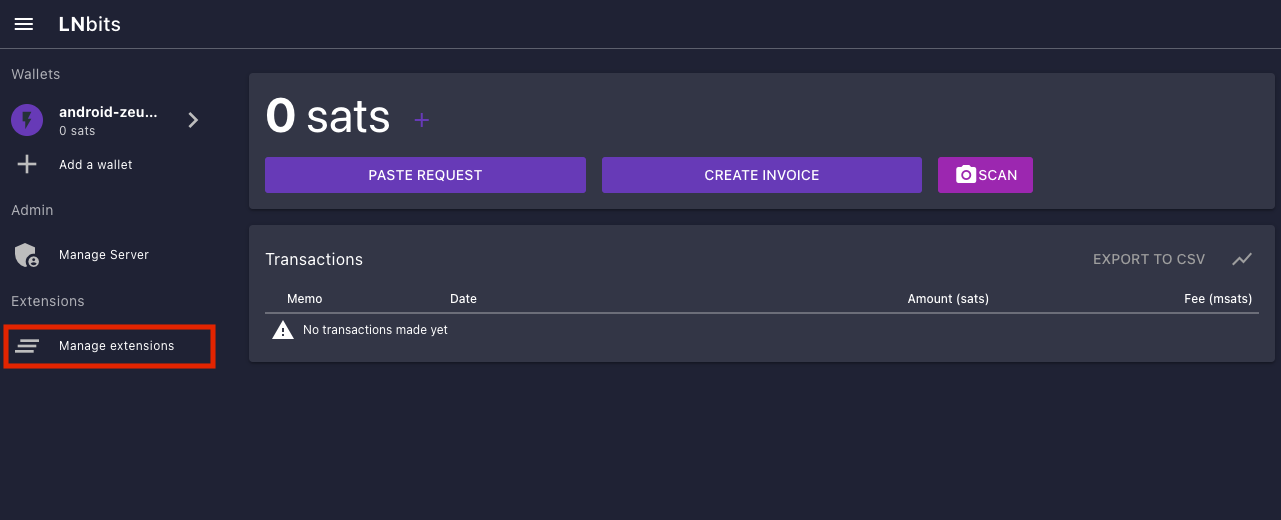
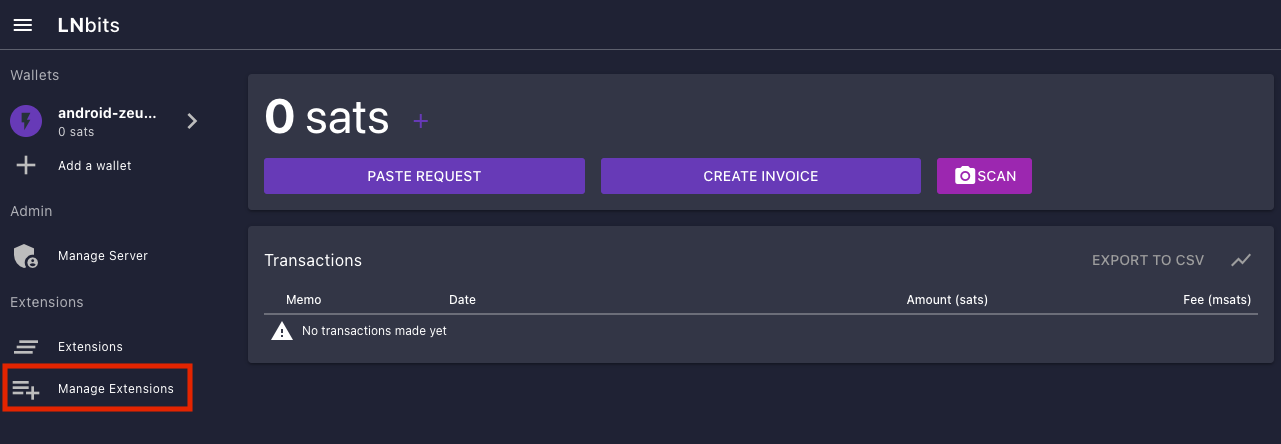
change format to be just lnbits with two tabs (zeus/alby), update to new LNbits UI

diff --git a/site/source/user-manual/service-guides/lightning/lightning-integrations.rst b/site/source/user-manual/service-guides/lightning/lightning-integrations.rst
@@ -90,16 +90,16 @@ BlueWallet
 
 .. _lnbits-zeus:
 
-LNbits & Zeus
--------------
+LNbits
+------
+
+Using LNbits allows you to create a wallet that makes use of your node with only an alloted amount of sats. This restriction can be very helpful for if you only want to have a small amount for spending on your phone without making your entire lightning balance available. You can even allow other people to have wallets you create for them - think giving your children an allowance. They can start with a set amount (can be zero) and simply spend what you initially make available. They can also earn more for themselves as they will have the freedom to issue their own invoices - all while making use of your node.
+
+.. tip:: All wallets created this way are ultimately bound by the capacity of your node. If one wallet is allocated 10,000 sats but your underlying node only has 9000 sats of outbound capacity, payments will simply fail.
 
 .. note:: LND only
 
-.. note:: Requires Tor to be running on your phone - use :ref:`this guide<tor-os>` if necessary.
-
-Using LnBits allows you to create a wallet that makes use of your node with only an alloted amount of sats. This restriction can be very helpful for if you only want to have a small amount for spending on your phone without making your entire lightning balance available. You can even allow other people to have wallets you create for them - think giving your children an allowance. They can start with a set amount (can be zero) and simply spend what you initially make available. They can also earn more for themselves as they will have the freedom to issue their own invoices - all while making use of your node.
-
-.. tip:: All wallets created this way are ultimately bound by the capacity of your node. If one wallet is allocated 10,000 sats but your underlying node only has 9000 sats of outbound capacity, payments will simply fail.
+.. note:: You will need a Tor enabled browser. We suggest using Firefox which will need to have been setup to use Tor - if you have yet to do this please see our guide :ref:`here<tor-firefox>`. This also requires having :ref:`native tor setup<tor-os>`.
 
 #. Start by ensuring that you have LND and LNbits installed already. You also need for LND to have at least one channel set up otherwise payments will not work. If you have not set up a channel yet, please follow :ref:`this guide<lightning-intro>`.
 
@@ -109,119 +109,167 @@ Using LnBits allows you to create a wallet that makes use of your node with only
 
 #. Head to LNbits on your server, click on **Properties** and copy address under the **Superuser Account**.
 
-   .. note:: You need to make sure you are going to .onion address - Zeus cannot connect over .local! Please change *.local* to *.onion* and remove the *s* from *https://* as shown in the picture below.
+   .. note:: In this guide we are connecting via Tor so please change *.local* to *.onion* and remove the *s* from *https://* as shown in the picture below.
 
    .. figure:: /_static/images/services/lnbits/local-to-onion.png
       :width: 60%
       :alt: local-to-onion
 
-#. Now a default wallet will be generated - highlighted on the top left. We'll rename it by clicking **Rename wallet** entering **android-zeus-wallet** then clicking **UPDATE NAME**:
+   .. tip:: The address should look something like this - http://lotsofrandomletters.onion/wallet?usr=morerandomletters
+
+#. Paste this address into your browser and you'll see the following screen - please click "I understand":
+
+   .. figure:: /_static/images/services/lnbits/superuser-first-open.png
+      :width: 60%
+      :alt: superuser-first-open
+
+#. Now a default wallet will have already been generated - highlighted on the top left. We'll rename it by clicking **Rename wallet** entering **android-zeus-wallet** then clicking **UPDATE NAME**:
 
    .. figure:: /_static/images/services/lnbits/rename-default-wallet.png
       :width: 60%
       :alt: rename-default-wallet
 
-#. Click **Manage extensions**:
+   .. tip:: This will also work for running Zeus on iPhone or using the Alby extension so feel free to name the wallet accordingly.
+
+#. Now it's time to add the LndHub extension which we will allow us to connect lightning apps to LNbits. Click **Manage extensions**:
 
    .. figure:: /_static/images/services/lnbits/manage-extensions.png
       :width: 50%
       :alt: manage-extensions
 
-#. Click **ENABLE** under the LndHub extension:
+#. Click **MANAGE** under the LndHub extension:
 
-   .. figure:: /_static/images/services/lnbits/enable-lndhub.png
+   .. figure:: /_static/images/services/lnbits/lndhub-manage.png
       :width: 40%
-      :alt: enable-lndhub
+      :alt: lndhub-manage
 
-#. Click **LndHub** under *Extensions* and make sure the wallet you just created is selected below the two QR codes:
+#. Click the two arrows on the right, then click install:
+
+   .. figure:: /_static/images/services/lnbits/arrows-install.png
+      :width: 40%
+      :alt: arrows-install
+
+#. Now ensure that it says **Activated** underneath LndHub and then click **Extensions** on the left:
+
+   .. figure:: /_static/images/services/lnbits/activated-click-extensions.png
+      :width: 40%
+      :alt: activated-click-extensions
+
+#. Click **ENABLE**:
+
+   .. figure:: /_static/images/services/lnbits/extensions-enable.png
+      :width: 40%
+      :alt: extensions-enable
+
+#. Click **OPEN** *or* **LndHub** under extensions:
+
+   .. figure:: /_static/images/services/lnbits/lndhub-open.png
+      :width: 40%
+      :alt: lndhub-open
+
+#. Make sure the wallet you just created is selected below the two QR codes:
 
    .. figure:: /_static/images/services/lnbits/lndhub-select-wallet.png
       :width: 40%
       :alt: lndhub-select-wallet
 
-#. Now install `Zeus <https://zeusln.app/>`_ on your phone and open it up.
+   Now you'll need to choose a wallet with which to connect to LNbits - Zeus and Alby have been tested to work:
 
-   .. Note:: You need to have :ref:`Tor running on your phone<tor-os>` for this to work. For Android you will also need to turn on VPN mode within Orbot and add Zeus as an app to it.
+   .. note:: This is not the same as connecting Zeus and Alby directly to your lightning node - using LNbits allows us to allocate a specific amount of funds to Zeus/Alby instead of giving them full access to a lightning node. We can also use LNbits to permit only receiving and not spending - see below)
 
-#. Click **SCAN NODE CONFIG**.
+.. tabs::
 
-   .. figure:: /_static/images/services/lnbits/scan-node-config.jpg
-      :width: 25%
-      :alt: scan-node-config
+   .. group-tab:: Zeus
 
-#. *If you only want this wallet to be able to RECEIVE PAYMENTS, scan this QR code:*
+      .. note:: Requires Tor to be running on your phone - use :ref:`this guide<tor-os>` if necessary.
 
-   .. figure:: /_static/images/services/lnbits/left-qr.png
-      :width: 40%
-      :alt: left-qr
+      #. Install `Zeus <https://zeusln.app/>`_ on your phone and open it up.
 
-   *If you are happy for this wallet to be able to both receive and MAKE payments scan this QR code:*
+         .. Note:: You need to have :ref:`Tor running on your phone<tor-os>` for this to work. For Android you will also need to turn on VPN mode within Orbot and add Zeus as an app to it.
 
-   .. figure:: /_static/images/services/lnbits/right-qr.png
-      :width: 40%
-      :alt: right-qr
+      #. Click **SCAN NODE CONFIG**.
 
-#. Once scanned, name the wallet if you wish - then disable **Use Tor** and disable **Certificate verification** then hit **SAVE NODE CONFIG**.
+         .. figure:: /_static/images/services/lnbits/scan-node-config.jpg
+            :width: 25%
+            :alt: scan-node-config
 
-   .. note:: Certificate verification is not necessary when using Tor
+      #. *If you only want this wallet to be able to RECEIVE PAYMENTS, scan this QR code:*
 
-   .. figure:: /_static/images/services/lnbits/save-node-config.png
-      :width: 25%
-      :alt: save-node-config
+         .. figure:: /_static/images/services/lnbits/left-qr.png
+            :width: 40%
+            :alt: left-qr
 
-#. Hit **I UNDERSTAND, SAVE NODE CONFIG**:
+         *If you are happy for this wallet to be able to both receive and MAKE payments scan this QR code:*
 
-   .. figure:: /_static/images/services/lnbits/i-understand-save.png
-      :width: 25%
-      :alt: understand-save
+         .. figure:: /_static/images/services/lnbits/right-qr.png
+            :width: 40%
+            :alt: right-qr
 
-   .. tip:: This is all necessary because we are using Tor via Orbot instead of via Zeus itself. Using Zeus's built in Tor we have found not to work hence using Orbot, but this triggers the warning about certificates which again, is safe to ignore.
+      #. Once scanned, name the wallet if you wish - then disable **Use Tor** and disable **Certificate verification** then hit **SAVE NODE CONFIG**.
 
-#. Zeus will now connect to your node and you'll see this screen:
+         .. note:: Certificate verification is not necessary when using Tor
 
-   .. figure:: /_static/images/services/lnbits/new-wallet-screen-zeus.png
-      :width: 25%
-      :alt: new-wallet-screen-zeus
+         .. figure:: /_static/images/services/lnbits/save-node-config.png
+            :width: 25%
+            :alt: save-node-config
 
-   .. tip:: If it doesn't work, please manually restart the Zeus app.
+      #. Hit **I UNDERSTAND, SAVE NODE CONFIG**:
 
-#. You can now add sats to this wallet in two ways. You can allocate sats within LNbits by clicking the **+** icon here:
+         .. figure:: /_static/images/services/lnbits/i-understand-save.png
+            :width: 25%
+            :alt: understand-save
 
-   .. figure:: /_static/images/services/lnbits/plus-icon.png
-      :width: 60%
-      :alt: plus-icon
+         .. tip:: This is all necessary because we are using Tor via Orbot instead of via Zeus itself. Using Zeus's built in Tor we have found not to work hence using Orbot, but this triggers the warning about certificates which again, is safe to ignore.
 
-   Let's add 1000 satoshis:
+      #. Zeus will now connect to your node and you'll see this screen:
 
-   .. figure:: /_static/images/services/lnbits/add-1000-sats.png
-      :width: 60%
-      :alt: add-1000-sats
+         .. figure:: /_static/images/services/lnbits/new-wallet-screen-zeus.png
+            :width: 25%
+            :alt: new-wallet-screen-zeus
 
-   .. figure:: /_static/images/services/lnbits/1k-sats.png
-      :width: 60%
-      :alt: 1k-sats
-   
-   Alternatively you can simply hit **Request** in Zeus and receive by generating a standard lightning invoice:
+         .. tip:: If it doesn't work, please manually restart the Zeus app.
 
-   .. figure:: /_static/images/services/lnbits/zeus-request.png
-      :width: 20%
-      :alt: zeus-request
+      #. You can now add sats to this wallet in two ways. You can allocate sats within LNbits by clicking the **+** icon here:
 
-   .. note:: This will only work if your node has inbound liquidity. And you cannot send sats from the LND node LNbits is using as that is not a regular lightning payment - that is a reblanace.
+         .. figure:: /_static/images/services/lnbits/plus-icon.png
+            :width: 60%
+            :alt: plus-icon
 
-#. Once you have added sats, you can click on this button within Zeus and see your new balance:
+         Let's add 1000 satoshis:
 
-   .. figure:: /_static/images/services/lnbits/zeus-balance-button.png
-      :width: 20%
-      :alt: zeus-balance-button
+         .. figure:: /_static/images/services/lnbits/add-1000-sats.png
+            :width: 60%
+            :alt: add-1000-sats
 
-   .. figure:: /_static/images/services/lnbits/zeus-balance.png
-      :width: 20%
-      :alt: zeus-balance
+         .. figure:: /_static/images/services/lnbits/1k-sats.png
+            :width: 60%
+            :alt: 1k-sats
+      
+      Alternatively you can simply hit **Request** in Zeus and receive by generating a standard lightning invoice:
 
-   You are now free to make lightning payments - as mentioned your lightning node will need to have the necessary liquidity.
+      .. figure:: /_static/images/services/lnbits/zeus-request.png
+         :width: 20%
+         :alt: zeus-request
 
-.. tip:: You can delete Zeus and/or LNbits without ever losing the sats. They will remain on your node.
+      .. note:: This will only work if your node has inbound liquidity. And you cannot send sats from the LND node LNbits is using as that is not a regular lightning payment - that is a reblanace.
+
+      #. Once you have added sats, you can click on this button within Zeus and see your new balance:
+
+         .. figure:: /_static/images/services/lnbits/zeus-balance-button.png
+            :width: 20%
+            :alt: zeus-balance-button
+
+         .. figure:: /_static/images/services/lnbits/zeus-balance.png
+            :width: 20%
+            :alt: zeus-balance
+
+         You are now free to make lightning payments - as mentioned your lightning node will need to have the necessary liquidity.
+
+      .. tip:: You can delete Zeus and/or LNbits without ever losing the sats. They will remain on your node.
+
+   .. group-tab:: Alby
+
+   #. Placeholder
 
 .. tip:: All of the above instructions will work with accounts created without using the **Superuser account** - the only drawback is that you will not be able to allocate/deallocate satoshis within the LNbits interface.
 
